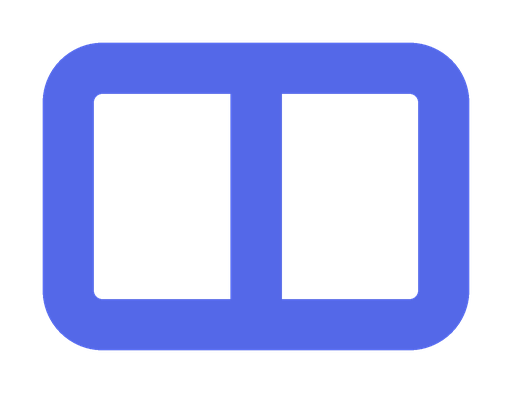
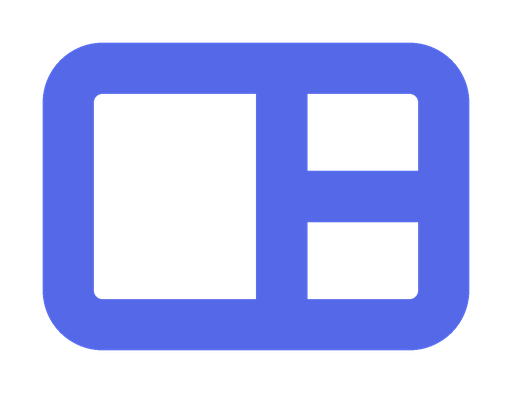
Split the board the way a tiling manager would, not down the middle
An even split is a table. The panes are uneven now — one wide, and a
narrow column beside it halved — which is the shape a dwindle layout
actually makes, and the difference between this mark and the stock
split-view icon it had become.

Still three rectangles and a border, and still 16 by 11 pixels of ink on
rows 7 to 17, where the volume icon beside it sits.

Changed region(s): [[0.5312, 0.2137, 0.8438, 0.7634], [0.4375, 0.2137, 0.5, 0.7634]]

diff --git a/OmaraMark.qml b/OmaraMark.qml
@@ -1,16 +1,20 @@
 import QtQuick
 import qs.Commons
 
-// The Omara mark: a board with two panes, which is what a mode is and what
-// the editor draws. Drawn rather than loaded, so it takes the bar's own
+// The Omara mark: a board with a layout in it, which is what a mode is and
+// what the editor draws. Drawn rather than loaded, so it takes the bar's own
 // colour and stays sharp at the size the bar asks for.
 //
-// Two rectangles and no paths. Everything here has to survive being resolved
-// at about eleven pixels — the ink height of the glyphs either side of it —
-// and at that size a shape is only as good as the number of parts it has.
-// A frame, a divider and the gaps between them is already four things inside
-// eleven pixels; a lit pane inside one of them would be a fifth, and its fill
-// merges into the frame's own edge before it ever reads as a pane.
+// The panes are deliberately uneven — one tall, two stacked beside it. Split
+// a board down the middle and you have drawn a table; split it the way a
+// tiling window manager does and you have drawn a layout. That asymmetry is
+// the whole difference between this and a stock split-view icon.
+//
+// Three rectangles and a border, no paths. Everything here has to survive
+// being resolved at about eleven pixels — the ink height of the glyphs either
+// side of it — and at that size a shape is only as good as the number of
+// parts it has. A lit pane was tried and dropped: a fill inside the board
+// merges into the board's own edge before it ever reads as a pane.
 Item {
   id: root
 
@@ -46,15 +50,26 @@ Item {
     border.width: root.stroke
     border.color: root.color
     antialiasing: true
-  }
 
-  // The split. Centred on the board's interior rather than on its edges, so
-  // the two panes come out the same width whatever the stroke rounded to.
-  Rectangle {
-    anchors.centerIn: board
-    width: root.stroke
-    height: board.height - root.stroke * 2
-    color: root.color
-    antialiasing: true
+    // The split, off centre, leaving a wide pane and a narrow column.
+    Rectangle {
+      id: column
+      x: 50 * root.u
+      y: root.stroke
+      width: root.stroke
+      height: board.height - root.stroke * 2
+      color: root.color
+      antialiasing: true
+    }
+
+    // The narrow column, halved.
+    Rectangle {
+      x: column.x + column.width
+      y: (board.height - root.stroke) / 2
+      width: board.width - root.stroke - x
+      height: root.stroke
+      color: root.color
+      antialiasing: true
+    }
   }
 }
